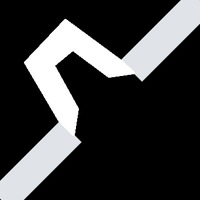
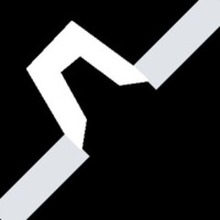
agrandado granpri}

diff --git a/trunk/static/games/granpri/pages/index.html b/trunk/static/games/granpri/pages/index.html
@@ -20,11 +20,11 @@
    $(function(){ 
    
    	var trackImg = [],
-	CWIDTH=600,
-	CHEIGHT=450,
+	CWIDTH=720,
+	CHEIGHT=540,
 	xpos = new Array(),
 	ypos = new Array(),
-	tmax = 15,
+	tmax = 20,
 	logger = $.games.new_play(),
 	backsound,
 	scoreTable = new Highscore(resume),
@@ -45,7 +45,7 @@
 	pPaso = 0,
 	check = new Checkpoint([5, 10, 15, 20, 25],on_end,on_check),  
     temp = $("#temp").get(0).getContext('2d');
-	temp.translate(100,100);
+	temp.translate(110,110);
 	temp.save(); 
    	for (i=0;i<=4;i++){
 		trackImg[i]= new Image();
@@ -53,10 +53,6 @@
 	} //
 	var img = new Image();
 	img.src = './res/images/Pasto.png';
-	img.onload = function(){
-	   generate_track([0,1,2,3],[1,2,3,4])
-	   
-    }
 	if ($.games.is_school_player){setTimeout(function(){END_SCHOOL = 1},$.games.school_max_time*1000)}
 	if ($.games.is_authenticated){
 		state = $.games.state;
@@ -83,29 +79,36 @@
 	//Drawing functions	
 	
 	function generate_track(interior,exterior){
-		var new_data=0;
+		var LADO = 220,
+			PX = 200,
+			PY = 75,
+			new_data=0;
 		ctx.drawImage(img,0,0);
+		ctx.globalCompositeOperation = 'lighter';
+		
 		temp.restore();
 		// dibujo exterior
-		ctx.globalCompositeOperation = 'lighter';
+		
+
 		for (c = 0; c < 4; c++) {
-			temp.drawImage(trackImg[exterior[c]], -100, -100);
-			ctx.drawImage($("#temp").get(0), 175 + 200 * Math.floor(c / 2), 25 + Math.round((c % 3)/1.5) * 200);
+			temp.drawImage(trackImg[exterior[c]], -LADO/2, -LADO/2);
+			ctx.drawImage($("#temp").get(0), PX + LADO * Math.floor(c / 2),PY + Math.round((c % 3)/1.5) * LADO);
 			temp.rotate(-Math.PI *90/180);
 		}
-		temp.restore();
+		
+		temp.restore()
 		// dibujo interior
 		temp.transform(0,-1,-1,0,0,0);
 		for (c = 0; c < 4; c++) {
-			temp.drawImage(trackImg[interior[c]], -100, -100);
-			ctx.drawImage($("#temp").get(0), 175 + 200 * Math.floor(c / 2), 25 + Math.round((c % 3)/1.5) * 200);
+			temp.drawImage(trackImg[interior[c]], -LADO/2, -LADO/2);
+			ctx.drawImage($("#temp").get(0), PX + LADO * Math.floor(c / 2), PY + Math.round((c % 3)/1.5) * LADO);
 			temp.rotate(Math.PI *90/180);
 		}
-		x = ctx.getImageData(0,0,600,450);
+		x = ctx.getImageData(0,0,720,540);
 		pixels= x.data;
 		ctx.globalCompositeOperation = 'source-over';  
 		ctx.fillStyle = "#0abcdf"
-		ctx.fillRect(170,220,40,20);
+		ctx.fillRect(190,290,40,20);
 	}
 	
 	// Event handling functions
@@ -115,7 +118,7 @@
 			clearTimeout(c2);
 			$('#puntos').text('Corredores a la largada...')
 			$("#semaforo").hide();
-			check.displaytext('Epa te zarpaste, empeza de nuevo');
+			check.displaytext('Epa te moviste, empeza de nuevo');
 			soundManager.play('move');
 			comienzo();
 		}
@@ -146,22 +149,22 @@
 		en_pista.push((pixels[CWIDTH*(e.layerY+10)*4+(e.layerX+20)*4]==255)*1);
 		
 		//puntos de paso
-	    if (e.layerX>340 &e.layerX<410 &e.layerY>22 &e.layerY<80&clockwiseFlag)
+	    if (e.layerX>370 &e.layerX<470 &e.layerY>73 &e.layerY<130&clockwiseFlag)
 			show_paso(1);
-	   	if (e.layerX>340 &e.layerX<410 &e.layerY>22 &e.layerY<80& (pPaso&2)>0)
+	   	if (e.layerX>370 &e.layerX<470 &e.layerY>73 &e.layerY<130& (pPaso&2)>0)
 			show_paso(1)
-	   	if (e.layerX>520 &e.layerX<590 &e.layerY>200 &e.layerY<260 & pPaso != 0)
+	   	if (e.layerX>580 &e.layerX<640 &e.layerY>280 &e.layerY<320 & pPaso != 0)
 			show_paso(2)
-		if (e.layerX>350 &e.layerX<410 &e.layerY>380 &e.layerY<440& !clockwiseFlag)
+		if (e.layerX>370 &e.layerX<470 &e.layerY>470 &e.layerY<530& !clockwiseFlag)
 			show_paso(4)
-		if (e.layerX>350 &e.layerX<410 &e.layerY>380 &e.layerY<440& (pPaso&2)>0)
+		if (e.layerX>370 &e.layerX<480 &e.layerY>470 &e.layerY<530& (pPaso&2)>0)
 			show_paso(4)
 		if (en_pista[en_pista.length-1]){
 			$("#game-container").css('cursor','url(./res/images/auto2.gif),auto');
 		}else{
 			$("#game-container").css('cursor','url(./res/images/autofuera2.gif),auto');
 		}
-		if (e.layerX>160 &e.layerX<185 &e.layerY>217 &e.layerY<230&pPaso ==7){
+		if (e.layerX>170 &e.layerX<210 &e.layerY>270 &e.layerY<310&pPaso ==7){
 			$("#bandera").slideDown(250);
 			pPaso = 0;
 			setTimeout(show_puntos,1000);
@@ -213,7 +216,7 @@
 		$("[id^=banderin]").hide();
 		var timeTot = Math.round(time[time.length-1]-time[0])/1000;
 		var penalizacion = 0;
-		for (i=0;i<xpos.length;i++){
+		for (i=1;i<xpos.length;i++){
 			if (!en_pista[i]){
 				penalizacion+= Math.round(Math.abs(xpos[i]-xpos[i-1]) + Math.abs(ypos[i]-ypos[i-1]))/20
 			}
@@ -316,7 +319,7 @@
 
 <body>
 <div id="game-container" height = "600" width="450"> 
-<canvas id="gameArea" width="600" height="450"></canvas>
+<canvas id="gameArea" width="720" height="540"></canvas>
 <img id="banderin0" src = "./res/images/banderin.png">
 <img id="banderin1" src = "./res/images/banderin.png">
 <img id="banderin2" src = "./res/images/banderin.png">
@@ -335,7 +338,7 @@
 </div>
 <div id="tmax">Tiempo max: 15.000 s</div>
 
-<canvas id="temp" width="200" height="200"></canvas>
+<canvas id="temp" width="220" height="220"></canvas>
 </body>
 
 </html>

diff --git a/trunk/static/games/granpri/pages/style.css b/trunk/static/games/granpri/pages/style.css
@@ -8,8 +8,8 @@ body{
 	position:absolute;
 	left: 50%;
 	top: 50%;
-	margin-left: -300px;
-	margin-top: -175px;
+	margin-left: -360px;
+	margin-top: -270px;
 }
 #gameArea{
 	visibility:hidden;
@@ -25,8 +25,8 @@ body{
 }
 #semaforo{
 	position:absolute;
-	top: 170px;
-	left: 340px;
+	top: 220px;
+	left: 400px;
 	width: 50px;
 	height: 100px;
 	display:none;
@@ -37,8 +37,8 @@ body{
 	font-size: 10px;
 	color: white;
 	background-color: blue;
-	top: 220px;
-	left: 170px;
+	top: 290px;
+	left: 190px;
 	width: 40px;
 	height: 20px;
 }
@@ -63,39 +63,42 @@ body{
 #tmax{
 	position:absolute;
 	font-size: 20px;
-	background-color: transparent;
+	background-color: #9BB1DD;
+	-moz-border-radius: 10px;
+	border-radius: 10px;
 	top: 30%;
 	left: 80%;
-	width: 10%
-	height: 20%;
+	width: 18%;
+	height: 10%;
 }
 img{
 	position:absolute;
 }
 
 #banderin0{
-	top: 0%;
-	left: 60%;
-	display: none;
+	top: 110px;
+	left: 420px;
+	display:none;
+
 }
 
 #banderin1{
-	top: 48%;
-	left: 95%;
-	display: none;
+	top: 295px;
+	left: 640px;
+	display:none;
 }
 
 #banderin2{
-	top: 80%;
-	left: 60%;
-	display: none;
+	top: 480px;
+	left: 420px;
+	display:none;
 }
 div#flecha{
 	position: absolute;
 	display:none;
-	height: 40%;
+	height: 30%;
 	width: 15%;
- 	top: 30%;
+ 	top: 40%;
 	left: 10%;
 }
 
